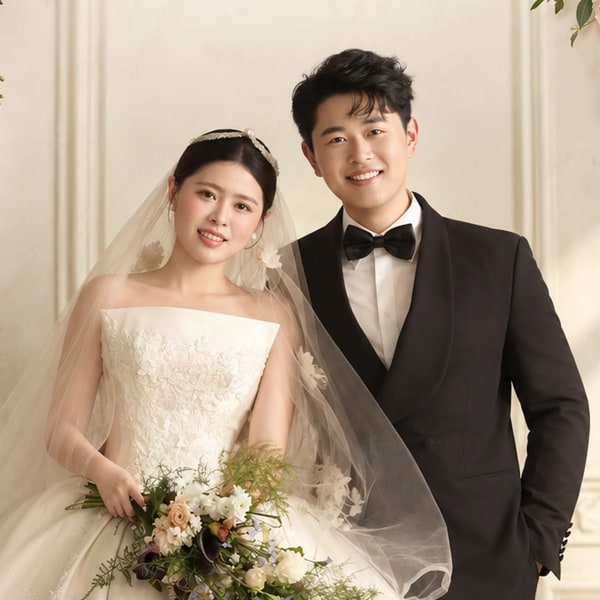
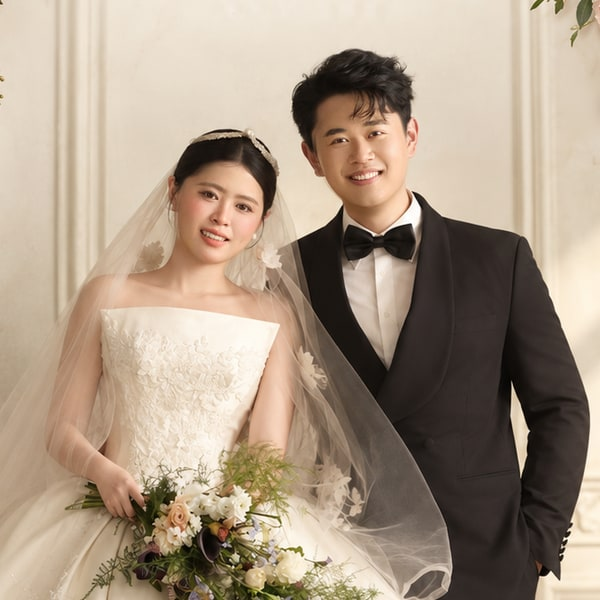
fix(portrait): 恢复默认迎宾图的婚纱原照五官
从高分辨率婚纱原照合成面部，保留眼鼻口、表情与肤色，处理轮廓衔接。
将恢复步骤接入迎宾素材重建流程，两个主题共用等比缩放与蒙版合成。
同步默认分享缩略图并增加地址版本参数，记录原照哈希及定位坐标。
补充原照像素核对，以旧设计稿作为反例；完善安卓回归的目标页等待。

构建及 58 项检查通过，中式肖像重建后哈希不变。

diff --git a/src/config.js b/src/config.js
@@ -27,7 +27,7 @@ export const WEDDING_CONFIG = {
   share: {
     siteUrl: 'https://wedding.jaryn.com.cn',
     description: '良辰已定，佳期将至。诚邀您见证我们的婚礼，与我们共享这一份喜悦。',
-    image: '/share/wedding-portrait.jpg',
+    image: '/share/wedding-portrait.jpg?v=original-faces',
     chineseImage: '/share/chinese-wedding-portrait.jpg',
     imageWidth: 600,
     imageHeight: 600,

diff --git a/design/implementation-notes.md b/design/implementation-notes.md
@@ -10,7 +10,7 @@
 
 加载页保留英文花体、邀请短句与开启按钮，不显示“婚礼请柬”四字及新人、日期、地点。迎宾页展示新人照片与姓名；第二页展示日期、流程和日历入口；第三页展示场地与地址；末页汇总新人、时间和地点。日历弹窗提供完整日程，供宾客在时间页主动查看和保存。
 
-网页标题和浏览器图标保留新人信息，用于页面识别与分享场景。该信息不受正文的分步呈现约束。标题为“新郎❤新娘”，OG、页面描述和 Twitter 标签由配置生成并写入原始 HTML。`side` 与 `parents` 参数生成双方家长版副标题，由生产 Node 服务按请求渲染；请柬正文不随家长署名变化。600 × 600 的分享缩略图由迎宾照裁切，处理入口为 `design/prepare-share-image.mjs`。
+网页标题和浏览器图标保留新人信息，用于页面识别与分享场景。该信息不受正文的分步呈现约束。标题为“新郎❤新娘”，OG、页面描述和 Twitter 标签由配置生成并写入原始 HTML。`side` 与 `parents` 参数生成双方家长版副标题，由生产 Node 服务按请求渲染；末页按家长身份显示邀请者与新人称谓。600 × 600 的分享缩略图由迎宾照裁切，处理入口为 `design/prepare-share-image.mjs`。
 
 微信自定义分享的前端接入位于 `src/wechat-share.js`。签名接口为空时不加载 SDK；当前未配置公众号签名服务，不能保证微信卡片的实际显示。接入步骤和验证范围见 [微信分享配置](../docs/wechat-sharing.md)。
 
@@ -26,11 +26,15 @@
 
 ## 迎宾参考图
 
-选定方案保存为 `design/welcome-reference.png`，分辨率为 941 × 1672。`design/prepare-welcome-reference.mjs` 清理原图文字及八片独立花瓣的笔画、投影，并修补受影响的金框，导出 `src/assets/cover-welcome-art.webp`。新人面部与上半身设为保护区域，花束与左下散焦枝叶保留。清理蒙版保存在 `design/welcome-cleanup-mask.png`，区域坐标位于 `design/welcome-reference-layout.json`。
+选定方案保存为 `design/welcome-reference.png`，分辨率为 941 × 1672。`design/prepare-welcome-reference.mjs` 清理原图文字及八片独立花瓣的笔画、投影，并修补受影响的金框。清理阶段避开设计稿中的人像，花束与左下散焦枝叶保留。清理蒙版保存在 `design/welcome-cleanup-mask.png`，区域坐标位于 `design/welcome-reference-layout.json`。
+
+清理完成后，脚本调用 `design/restore-classic-portrait.mjs`，从 `design/迎宾照.jpg` 的 5787 × 8185 婚纱原照恢复面部。两人各自按眼距等比缩放、眼睛中点平移；轮廓羽化，五官内部保持不透明，保留原照像素。发型、头纱与服装沿用迎宾设计，最终导出无损 `src/assets/cover-welcome-art.webp`。此步骤区别于清理阶段的“保护设计稿人像”，重新生成素材也会执行。原照哈希、定位坐标和面部掩膜位于 `design/classic/`。
 
 姓名和迎宾牌文字使用 HTML 排版。姓名读取 `src/config.js`；迎宾页展示姓名、合影、“TOGETHER FOREVER”及“Welcome”。文字坐标跟随参考图等比裁切。窄长屏补齐边框，角花从参考图提取至 `src/assets/cover-frame-corner.webp`。
 
-素材处理脚本使用 Sharp，运行入口为 `node design/prepare-welcome-reference.mjs`。独立工具环境可通过 `SHARP_MODULE_PATH` 指定模块路径。旧版纸面合成保留在 `design/compose-cover.mjs`，不再作为当前迎宾页资源。
+素材处理脚本使用 Sharp，运行入口为 `node design/prepare-welcome-reference.mjs`，随后运行 `node design/prepare-share-image.mjs` 更新分享缩略图。分享地址携带图片版本参数，减少旧卡片图像缓存的影响。独立工具环境可通过 `SHARP_MODULE_PATH` 指定模块路径。两个主题的原照合成共用 `design/portrait-composite.mjs`，各自维护定位与轮廓；中式版保留原有红底和旧发丝的连通清理。旧版纸面合成保留在 `design/compose-cover.mjs`，不再作为当前迎宾页资源。
+
+运行 `node --test tests/classic-portrait.test.mjs tests/chinese-portrait.test.mjs` 核对面部像素。默认主题检查同时使用原设计稿作为反例，避免把设计稿五官的原样保留误判为恢复原照。
 
 ## 毛玻璃面板
 

diff --git a/docs/wechat-sharing.md b/docs/wechat-sharing.md
@@ -15,7 +15,7 @@
 
 `build/share-metadata.js` 在构建时写入普通版标题、OG、Twitter summary、canonical 和图片信息。运行时由 `server/app.js` 按请求参数生成家长版标签，抓取方不需要执行页面脚本。构建与服务共用 `src/share-html.js`，URL 署名按文本编码。`public/share/wedding-portrait.jpg` 是 600 × 600 JPEG，由当前迎宾照裁切，未重绘人物；裁切参数位于 `design/share-image-layout.json`。
 
-修改缩略图时运行 `node design/prepare-share-image.mjs`，脚本需要 Sharp，可通过 `SHARP_MODULE_PATH` 指定工具环境的模块路径。图片更新后如遇客户端缓存，可修改图片文件名与 `share.image`。
+修改缩略图时运行 `node design/prepare-share-image.mjs`，脚本需要 Sharp，可通过 `SHARP_MODULE_PATH` 指定工具环境的模块路径。默认迎宾图的五官由 `design/迎宾照.jpg` 恢复，合成记录见 `design/classic/portrait-provenance.json`。当前默认缩略图使用 `?v=original-faces` 版本参数；生成脚本仅用 URL 路径写入文件。图片更新后如遇客户端缓存，可修改图片文件名或地址版本参数与 `share.image`。
 
 ## 家长邀请链接
 
